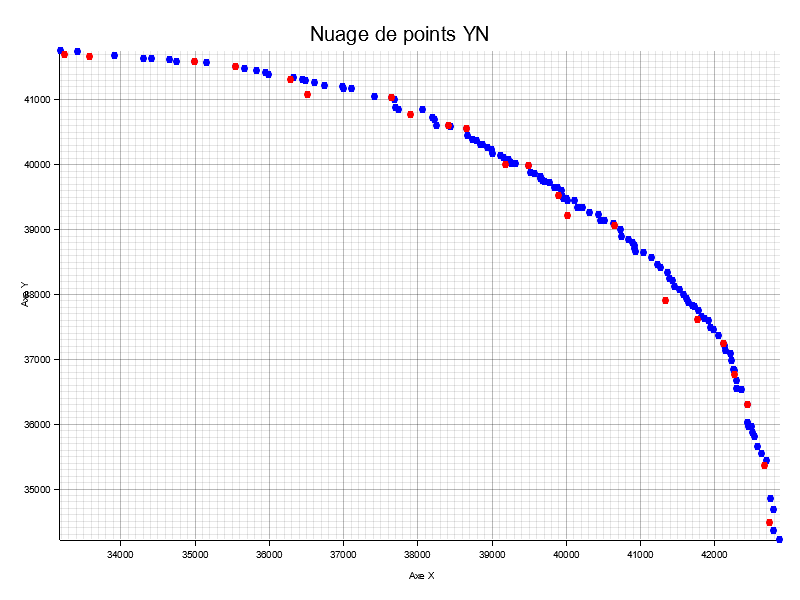
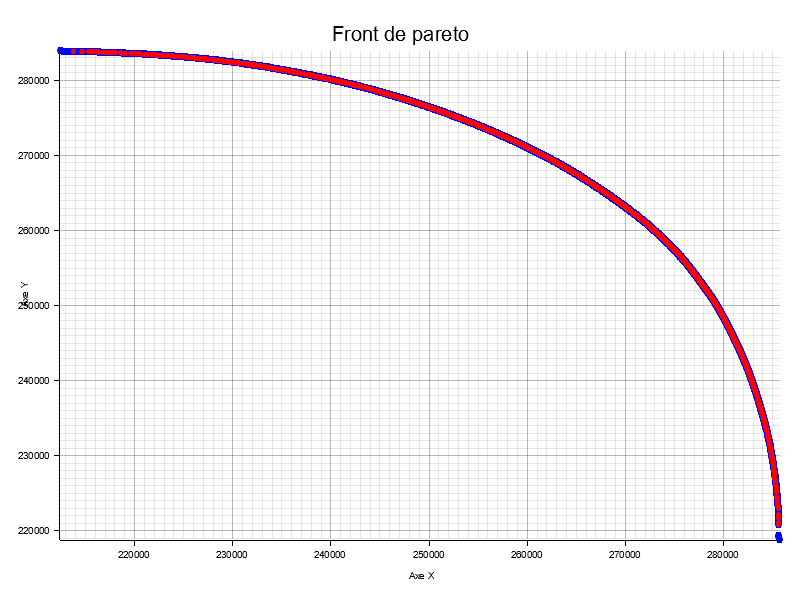
Finish PLS1

Changed region(s): [[0.0312, 0.03, 1.0, 0.93]]

diff --git a/src/local_search.rs b/src/local_search.rs
@@ -18,9 +18,8 @@ pub fn pls(
     while !pop.is_empty() {
         for p in pop.iter_mut() {
             let all_pprime = get_voisins(p, w, v, max_cap, &weight_sorted_idx);
-            //println!("{}", all_pprime.len());
             for pp in all_pprime {
-                if !(p.1[0] > pp.1[0] || p.1[1] > pp.1[1]) {
+                if !(p.1[0] >= pp.1[0] && p.1[1] >= pp.1[1]) {
                     if mise_a_jour(&mut pareto_front, pp.clone()) {
                         mise_a_jour(&mut pop_aux, pp);
                     }
@@ -28,6 +27,7 @@ pub fn pls(
             }
         }
 
+        println!("{}", pop_aux.len());
         //println!("{}", pop_aux.len());
         std::mem::swap(&mut pop, &mut pop_aux);
         pop_aux.clear();
@@ -45,7 +45,9 @@ fn get_voisins(
     let (take, profit) = x;
     let mut tot_weight = 0;
     for (ti, wi) in take.iter().zip(w) {
-        tot_weight += wi * (*ti as u32); //Ajoute l si c:1, Branchless
+        if *ti {
+            tot_weight += wi;
+        }
     }
     let mut voisins = Vec::new();
 
@@ -59,13 +61,12 @@ fn get_voisins(
                 if *s != k && !take[*s] && tot_weight + w[*s] <= max_cap {
                     profit[0] += v[*s][0];
                     profit[1] += v[*s][1];
+                    take[*s] = true;
                     voisins.push((take.clone(), profit.clone()));
-                }
-                if tot_weight + w[*s] > max_cap {
-                    take[k] = true;
-                    profit[0] += v[k][0];
-                    profit[1] += v[k][1];
-                    tot_weight += w[k];
+                    take[*s] = false;
+                    profit[0] -= v[*s][0];
+                    profit[1] -= v[*s][1];
+                } else if tot_weight + w[*s] > max_cap {
                     break;
                 }
             }

diff --git a/src/main.rs b/src/main.rs
@@ -1,3 +1,8 @@
+use mimalloc::MiMalloc;
+
+#[global_allocator]
+static GLOBAL: MiMalloc = MiMalloc;
+
 mod indicator;
 mod local_search;
 mod parser;
@@ -5,23 +10,36 @@ mod utils;
 
 use local_search::pls;
 use parser::{read_file, read_points};
+use std::{env, time::Instant};
 use utils::plot_points;
 
 fn main() {
     println!("TME enssemble non-dominé");
-    let num_instance = 0;
-    let n = 100;
+    let num_instance = 9;
+    let n = 700;
     let p = 2;
+    let mut save = false;
+
+    if env::args().len() > 1 {
+        save = true;
+        println!("Plot mode");
+    }
 
     let filename_dat = format!("Data/{}_items/2KP{}-TA-{}.dat", n, n, num_instance);
     let (w, v, max_cap) = read_file(filename_dat);
 
-    // Lecture des points non dominés
-    let filename_eff = format!("Data/{}_items/2KP{}-TA-{}.eff", n, n, num_instance);
-    let yn = read_points(filename_eff, p);
-    //println!("{:?}", yn);
-    let m = 10000000;
+    let m = 100;
+    let start = Instant::now();
     let approx_yn = pls(m, &w, p, &v, max_cap);
-    let approx_pt: Vec<Vec<u32>> = approx_yn.iter().map(|(_, y)| y.clone()).collect();
-    plot_points(&yn, &approx_pt, "points.png").expect("RE");
+    println!("Computed in {}ms", start.elapsed().as_millis());
+    // Lecture des points non dominés
+    if save {
+        let filename_eff = format!("Data/{}_items/2KP{}-TA-{}.eff", n, n, num_instance);
+        let yn = read_points(filename_eff, p);
+        let approx_pt: Vec<Vec<u32>> = approx_yn.iter().map(|(_, y)| y.clone()).collect();
+        plot_points(&yn, &approx_pt, "points.png").expect("RE");
+    } else {
+        println!();
+        println!("Pareto size {}", approx_yn.len());
+    }
 }

diff --git a/src/indicator.rs b/src/indicator.rs
@@ -2,23 +2,19 @@ use rand::prelude::*;
 
 pub fn mise_a_jour(
     pareto_front: &mut Vec<(Vec<bool>, Vec<u32>)>,
-    mut x: (Vec<bool>, Vec<u32>),
+    x: (Vec<bool>, Vec<u32>),
 ) -> bool {
     let mut updated = pareto_front.is_empty();
     let mut indices = Vec::new();
     for (k, xp) in pareto_front.iter_mut().enumerate() {
-        //print!("{:?} {:?}", xp.1, x.1);
         if xp.1[0] >= x.1[0] && xp.1[1] >= x.1[1] {
-            //println!();
             return false;
         } else {
             updated = true;
             if xp.1[0] <= x.1[0] && xp.1[1] <= x.1[1] {
-                std::mem::swap(&mut *xp, &mut x);
                 indices.push(k);
             }
         }
-        //println!(" {}", updated);
     }
     if updated {
         for (i, idx) in indices.iter().enumerate() {

diff --git a/src/utils.rs b/src/utils.rs
@@ -25,7 +25,7 @@ pub fn plot_points(
         });
     // Crée le graphique
     let mut chart = ChartBuilder::on(&root)
-        .caption("Nuage de points YN", ("sans-serif", 25))
+        .caption("Front de pareto", ("sans-serif", 25))
         .margin(20)
         .x_label_area_size(40)
         .y_label_area_size(40)
@@ -46,7 +46,7 @@ pub fn plot_points(
     chart.draw_series(
         approx_yn
             .iter()
-            .map(|v| Circle::new((v[0], v[1]), 3, RED.filled())),
+            .map(|v| Circle::new((v[0], v[1]), 2, RED.filled())),
     )?;
 
     // Sauvegarde l’image

diff --git a/src/parser.rs b/src/parser.rs
@@ -20,6 +20,12 @@ pub fn read_file(filename: String) -> (Vec<u32>, Vec<Vec<u32>>, u32) {
             v[i].push(data[1]);
             v[i].push(data[2]);
             i = i + 1;
+        } else if line.starts_with('n') {
+            let mut s = line.split_whitespace();
+            s.next();
+            let size: usize = s.next().unwrap().parse().unwrap();
+            w.reserve_exact(size);
+            v.reserve_exact(size);
         } else {
             if line.starts_with('W') {
                 let mut iter_line = line.split_whitespace();
